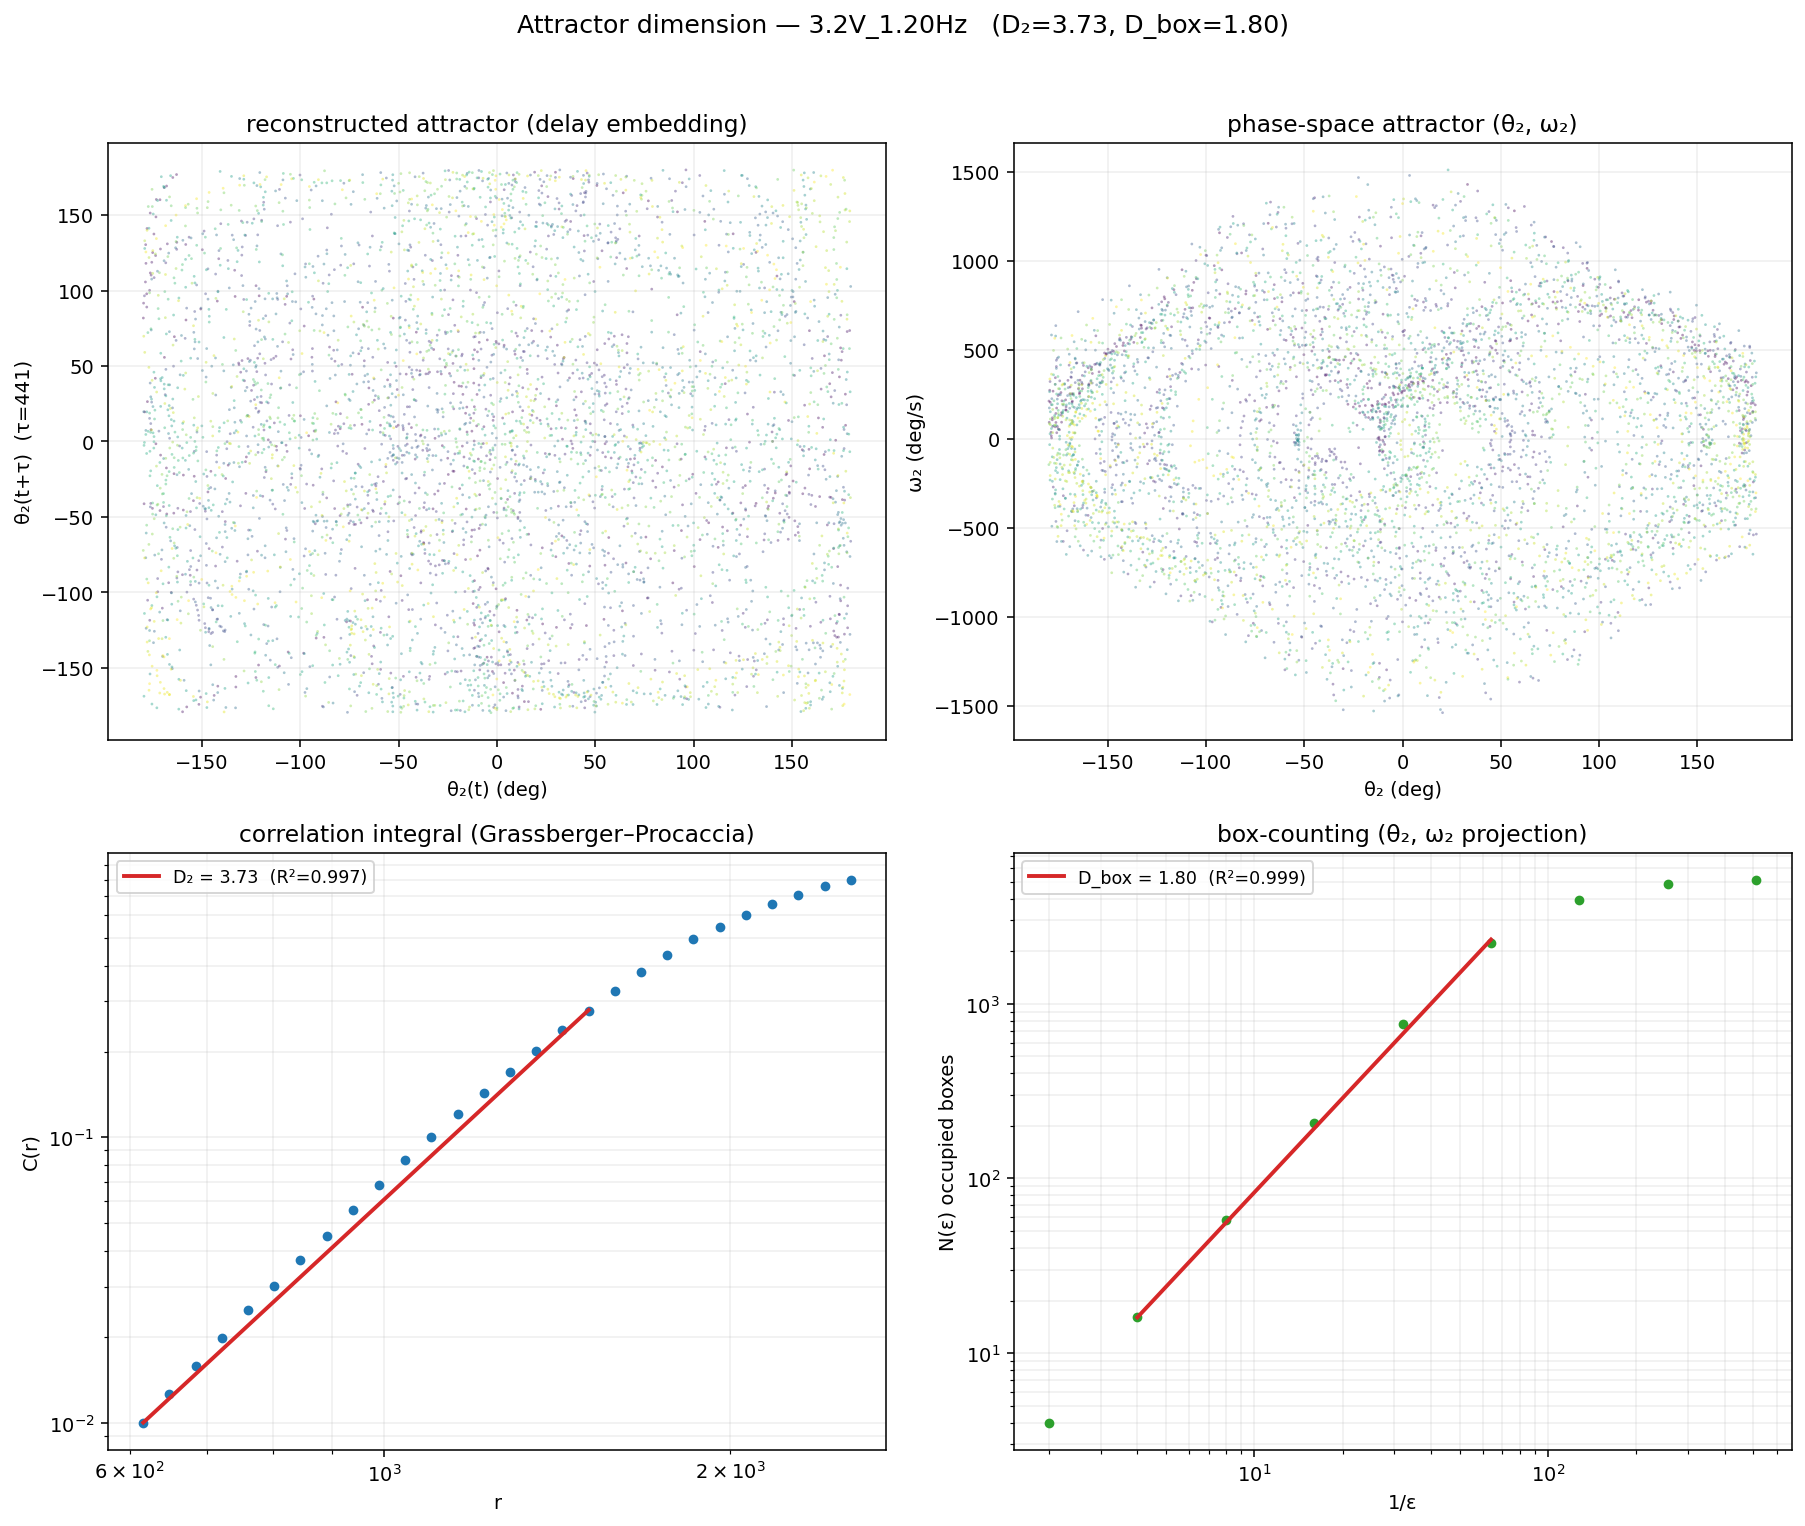
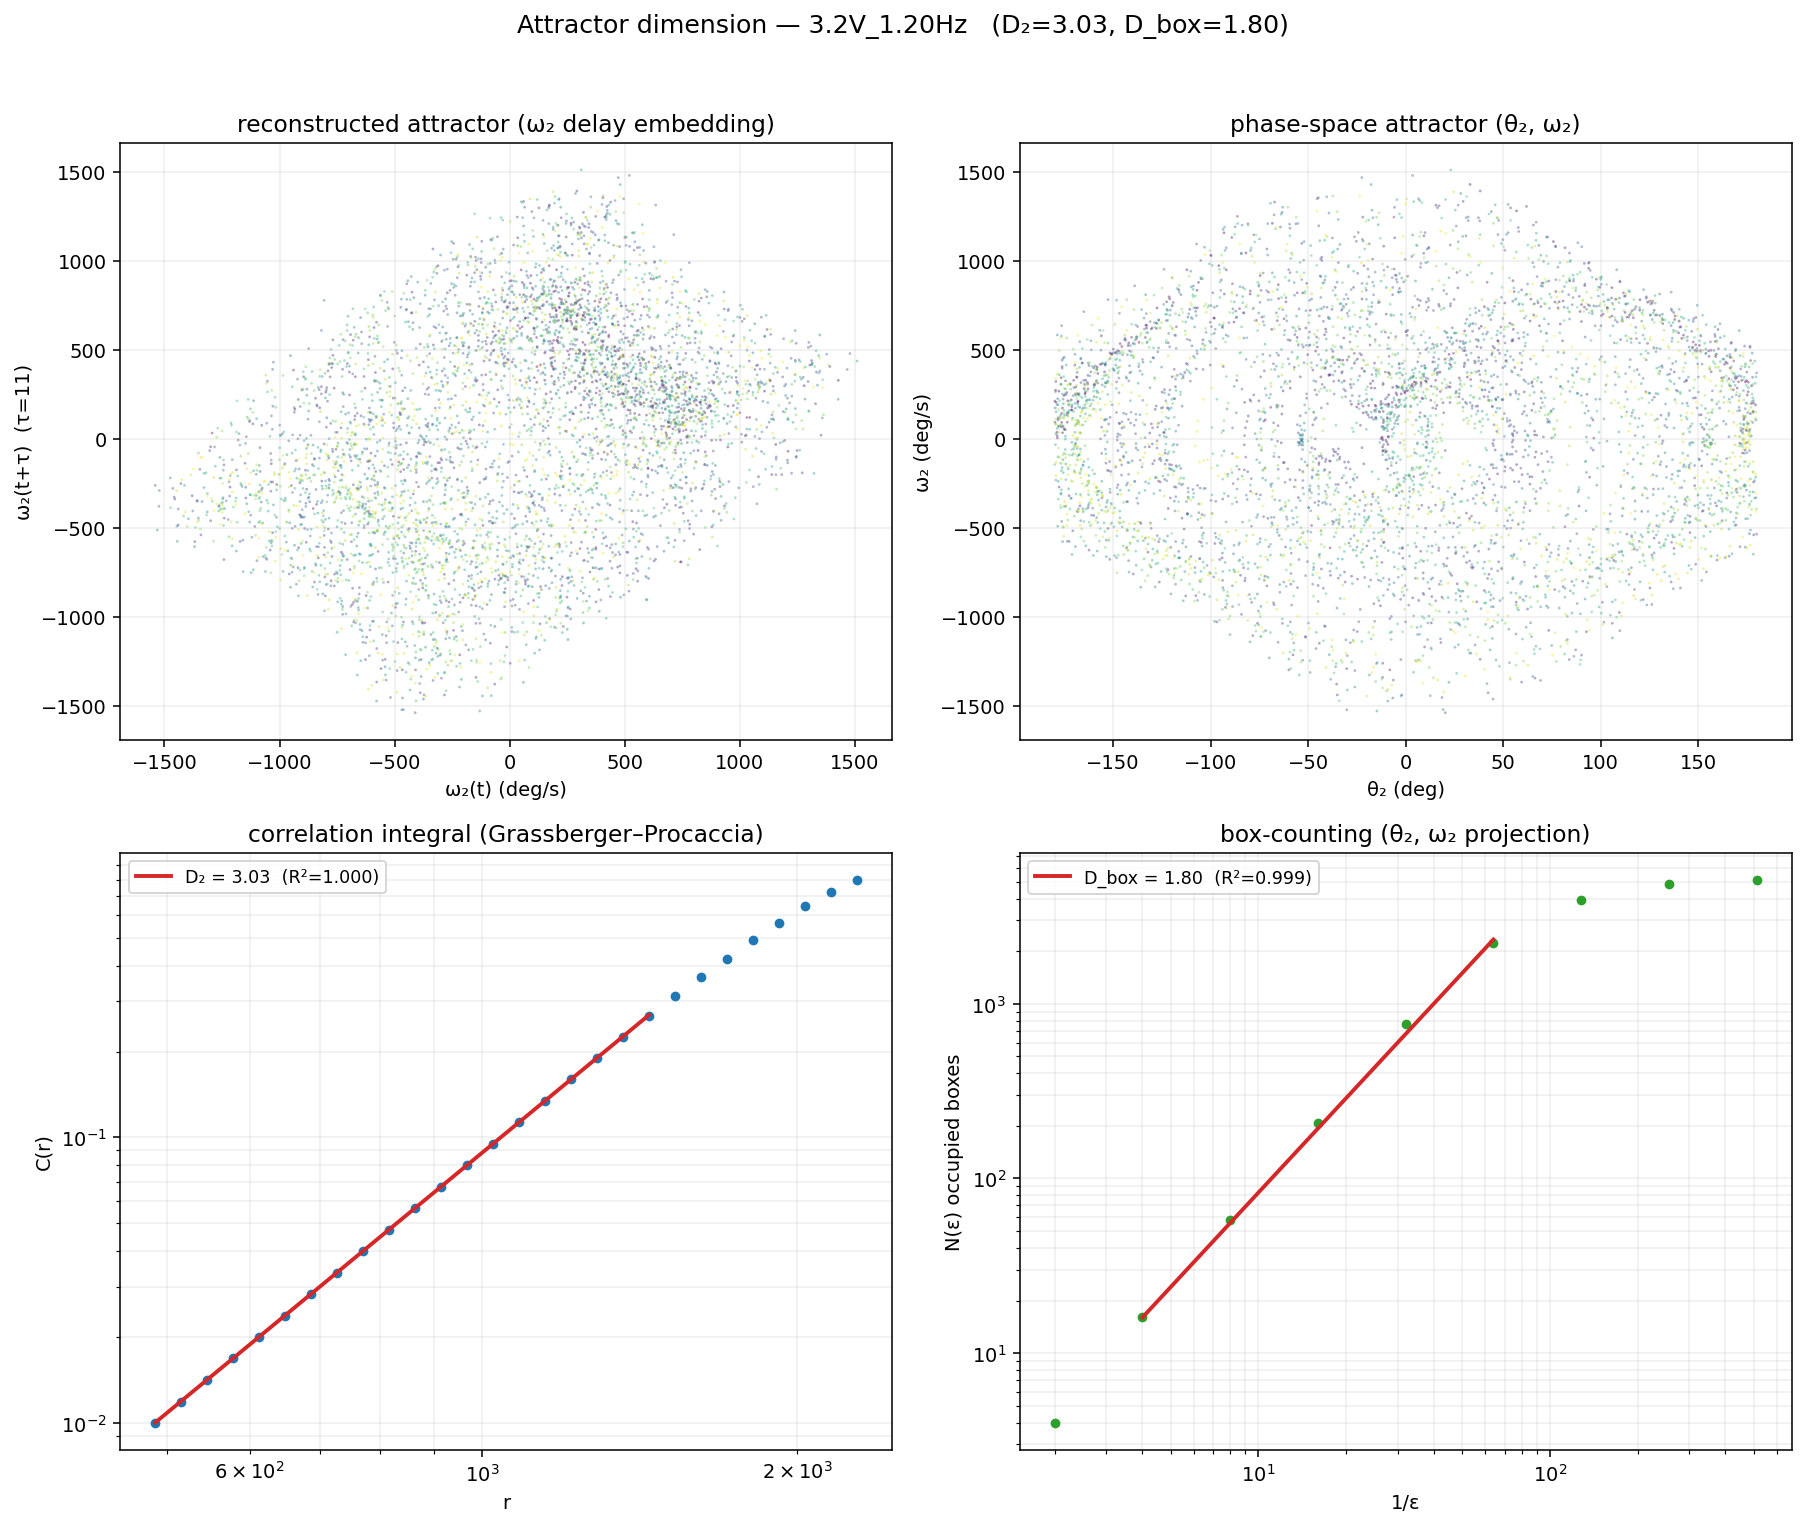
Fix correlation dimension: embed angular velocity, not the unbounded angle
D2 (Grassberger-Procaccia) was computed on a delay embedding of the
unwrapped theta2. For clips where the lower arm circulates (the chaotic
0.94-1.27 Hz band), that angle drifts without bound, so the embedding is
drift-dominated and the GP slope blows up past the embedding dimension
(D2 = 16-19 for m=5, mathematically impossible).

Embed omega2 instead: the angular velocity is stationary whether the arm
librates or rotates, so D2 is well-defined across the whole sweep. On the
chaotic clips D2 now lands ~3 (fractional, strange attractor) with
R^2 ~ 1.000 and a sane delay tau ~10-13 frames; periodic clips give ~1.3.

diff --git a/scripts/analysis/dimension.py b/scripts/analysis/dimension.py
@@ -8,8 +8,11 @@ dimension. Two estimates, both from the measured trajectory:
 
   D2    correlation dimension (Grassberger–Procaccia): slope of the
         correlation integral  log C(r) vs log r  on a delay embedding of
-        θ₂(t) (the chaotic lower arm). Robust from finite data — the
-        headline number; estimates the full attractor dimension.
+        ω₂(t), the lower-arm angular velocity. ω₂ stays stationary even
+        when the arm circulates, so D2 is well-defined whether the arm
+        librates or rotates — embedding the unbounded angle would be
+        drift-dominated and inflate the slope past the embedding
+        dimension. The headline number; estimates the full attractor dim.
   D_box box-counting (Minkowski) dimension on the 2-D (θ₂, ω₂) attractor
         projection:  log N(ε) vs log(1/ε).  The method named in the lab
         guide; capped at 2 (it is a 2-D projection).
@@ -204,12 +207,13 @@ def make_figure(stem, t, th2, om2, m, tau, corr, box, out_path):
     fig, ((a, b), (c, d)) = plt.subplots(2, 2, figsize=(13, 11))
     tc = t - t[0]
 
-    # (a) reconstructed attractor — delay embedding θ₂(t) vs θ₂(t+τ)
-    x0, x1 = th2[:-tau], th2[tau:]
+    # (a) reconstructed attractor — delay embedding ω₂(t) vs ω₂(t+τ)
+    #     (ω₂ is the observable used for D₂: stationary under circulation)
+    x0, x1 = om2[:-tau], om2[tau:]
     a.scatter(x0, x1, c=tc[:len(x0)], cmap="viridis", s=2, alpha=0.4,
               edgecolors="none")
-    a.set_xlabel("θ₂(t) (deg)"); a.set_ylabel(f"θ₂(t+τ)  (τ={tau})")
-    a.set_title("reconstructed attractor (delay embedding)")
+    a.set_xlabel("ω₂(t) (deg/s)"); a.set_ylabel(f"ω₂(t+τ)  (τ={tau})")
+    a.set_title("reconstructed attractor (ω₂ delay embedding)")
     a.grid(True, alpha=0.2)
 
     # (b) physical attractor — θ₂ vs ω₂
@@ -269,11 +273,15 @@ def compute(stem, m, tau_arg, transient_s, seed=0):
     if keep.sum() > 200:
         t, th2 = t[keep], th2[keep]
 
-    phi = np.degrees(np.unwrap(np.radians(th2)))   # continuous, for ω + embed
+    phi = np.degrees(np.unwrap(np.radians(th2)))   # continuous angle, for ω
     om2 = np.gradient(phi, t)
-    tau = tau_arg or autocorr_tau(phi)
+    # Embed the angular VELOCITY ω₂, not the angle: ω₂ is stationary even
+    # when the lower arm circulates, whereas the unwrapped angle drifts
+    # without bound and makes the delay-embedding drift-dominated (which
+    # inflates the GP slope past the embedding dimension on rotating clips).
+    tau = tau_arg or autocorr_tau(om2)
 
-    X = embed(phi, m, tau)
+    X = embed(om2, m, tau)
     dt = float(np.median(np.diff(t)))
     theiler = max(tau, int(round(0.5 / dt)) if dt > 0 else tau)  # ~0.5 s
     corr = correlation_dimension(X, theiler, seed=seed)
